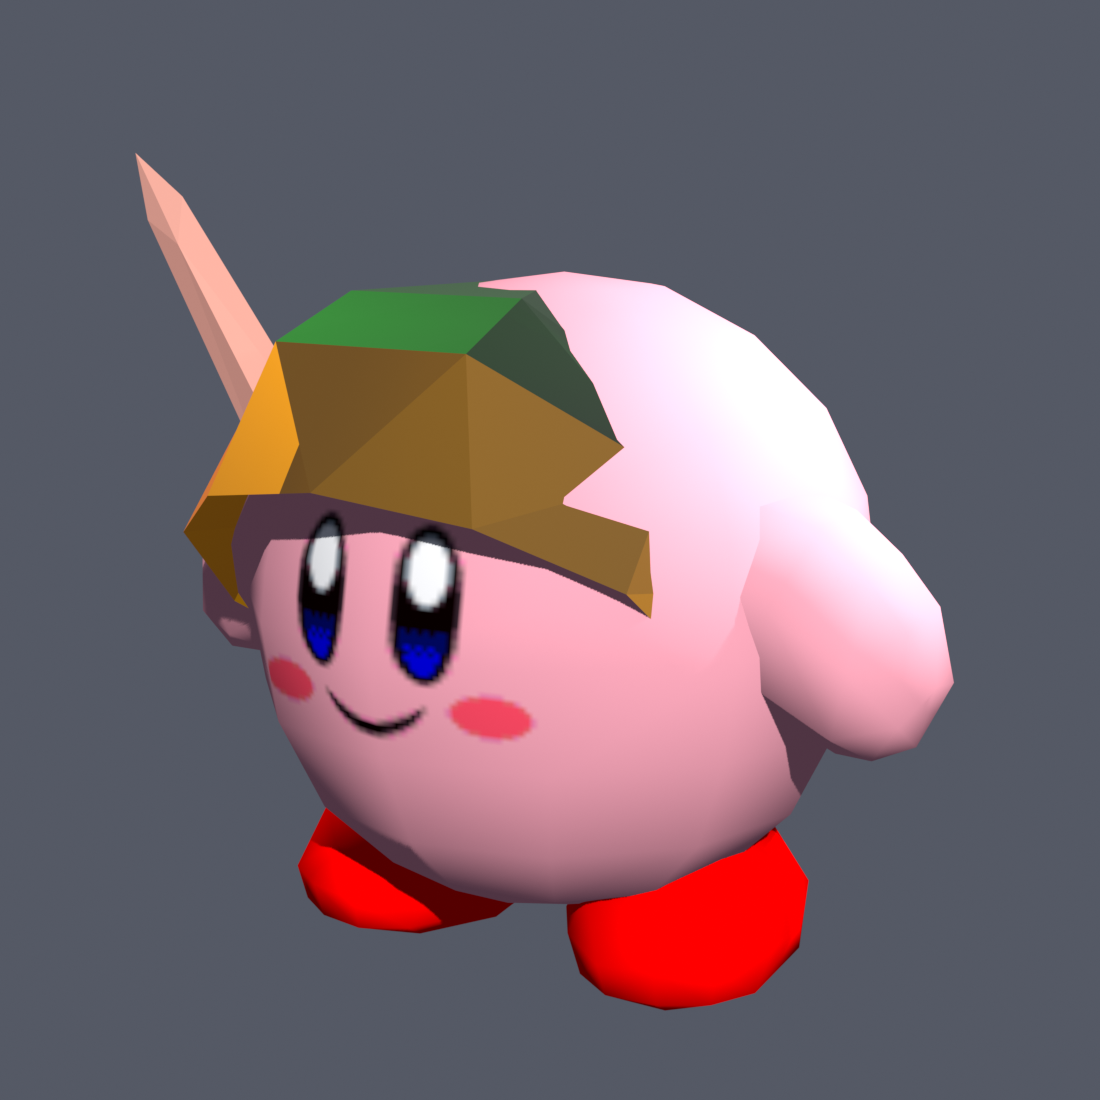
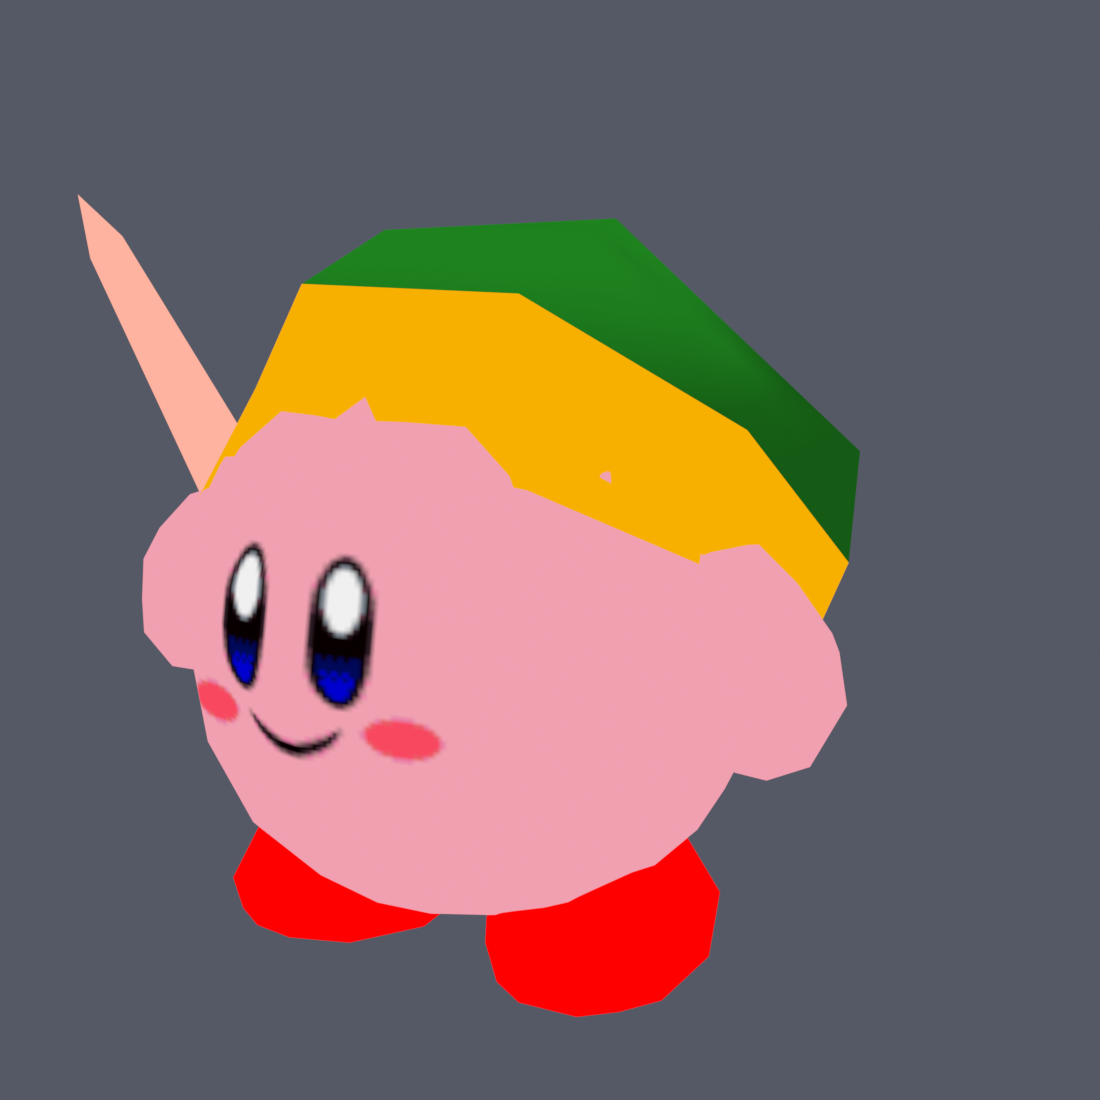
Fix the hat against the reference, and stop lighting the previews
Comparing against the reference render of Smash 64's Kirby (Link) turned up two
separate faults, one of them not in the model at all.

The previews were being lit with a key and fill lamp. These textures are already
fully shaded, so lighting them again darkened and tinted everything: the cap's gold
fringe came out a muddy olive against the reference's vivid yellow, and Kirby's pink
read dusty. flat_shading.py drives every material straight from its texture with an
emission shader, which is how the N64 draws them and how reference renders of these
rips are presented. Nothing was wrong with the materials, only with how they were
being looked at.

The cap placement was genuinely wrong, in three compounding ways. It was measured
against the donor's whole model, including the boomerang, which juts out on one side
and so both widened the reference box, making the cap come out too small, and shifted
its centre, sliding the cap off to one side. Position was carried as a scaled absolute
offset, which assumes both Kirbys share an origin. And vertically it was centred on
the cap's bounding box, which is dominated by the long tail hanging down the back, so
matching centres dragged the cap down until it sank into the head.

The cap is now measured against the donor's head alone, placed proportionally across
and front to back, and anchored vertically by how far its peak clears the crown, which
is the measurement that actually holds a hat on. It overhangs the head by thirteen
[…]

diff --git a/blender/build_sword_kirby.py b/blender/build_sword_kirby.py
@@ -36,8 +36,13 @@ from link_skeleton import DEFORM  # noqa: E402
 from sword_kirby import BONE_REST, build_reference_armature  # noqa: E402
 
 # Smash 64 textures that make up Link's cap, checked by average colour rather than by
-# guessing from the group names: the two green cloth materials and the gold band.
+# guessing from the group names: the two green cloth materials and the gold fringe.
 CAP_TEXTURES = ("2367eecf", "brim")
+
+# The boomerang, Kirby's Link copy move. It is dropped, and it is excluded when
+# measuring the donor's head so it cannot inflate the reference proportions.
+BOOMERANG_TEXTURES = ("bdd3634",)
+
 
 # Where Kirby sits against the reference rig. Link's head bone is near z 0.92, and
 # Kirby standing 0.84 high reads correctly without overtopping it.
@@ -105,6 +110,44 @@ def uses_cap_texture(material: bpy.types.Material | None) -> bool:
     return False
 
 
+def uses_any(material: bpy.types.Material | None, hints: tuple[str, ...]) -> bool:
+    if material is None or not material.use_nodes:
+        return False
+    for node in material.node_tree.nodes:
+        image = getattr(node, "image", None)
+        if image is None:
+            continue
+        name = os.path.basename(image.filepath or image.name).lower()
+        if any(h in name for h in hints):
+            return True
+    return False
+
+
+def donor_head_bounds(obj: bpy.types.Object) -> tuple[Vector, Vector]:
+    """Bounds of the donor Kirby's own body, with the cap and boomerang left out.
+
+    This is what the cap must be measured against. Using the whole model instead gets
+    it wrong twice over: the boomerang juts out on one side, which both widens the box,
+    making the cap come out too small, and shifts its centre, which slides the cap off
+    to one side of the head.
+    """
+    skip = {
+        i for i, m in enumerate(obj.data.materials)
+        if uses_any(m, CAP_TEXTURES) or uses_any(m, BOOMERANG_TEXTURES)
+    }
+    pts: list[Vector] = []
+    for poly in obj.data.polygons:
+        if poly.material_index in skip:
+            continue
+        for vi in poly.vertices:
+            pts.append(obj.matrix_world @ obj.data.vertices[vi].co)
+    if not pts:
+        raise ValueError("donor has no body left after excluding cap and boomerang")
+    lo = Vector((min(p.x for p in pts), min(p.y for p in pts), min(p.z for p in pts)))
+    hi = Vector((max(p.x for p in pts), max(p.y for p in pts), max(p.z for p in pts)))
+    return lo, hi
+
+
 def keep_only_cap(obj: bpy.types.Object) -> int:
     """Delete every face of the Smash 64 model that is not part of Link's cap."""
     cap_slots = {i for i, m in enumerate(obj.data.materials) if uses_cap_texture(m)}
@@ -144,20 +187,41 @@ def place_cap(
     """
     donor_width = max(donor_hi.x - donor_lo.x, 1e-6)
     body_width = body_hi.x - body_lo.x
-    # Kirby 64's head is rounder than the Smash 64 one the cap was cut from, so a
-    # straight width match sits the brim across his eyes. Easing it in and lifting it
-    # puts the brim on his forehead and lets the green show.
-    scale = (body_width / donor_width) * 0.90
-    lift = (body_hi.z - body_lo.z) * 0.10
+    # Match the two heads directly. Both are Kirbys of the same build, so the cap that
+    # fitted one fits the other at the ratio of their widths, with no fudge factor: the
+    # reference has the cap overhanging the head slightly at the sides, and shrinking it
+    # to perch on top was an artefact of measuring against the wrong box.
+    scale = body_width / donor_width
+    lift = 0.0
 
-    donor_centre = Vector(((donor_lo.x + donor_hi.x) * 0.5, (donor_lo.y + donor_hi.y) * 0.5, donor_lo.z))
-    body_centre = Vector(((body_lo.x + body_hi.x) * 0.5, (body_lo.y + body_hi.y) * 0.5, body_lo.z))
+    # Read the cap's own box before scaling, so the anchors below are in donor units.
+    raw_lo, raw_hi = world_bounds(cap)
 
     cap.scale = (scale, scale, scale)
     bpy.context.view_layer.update()
+    cap_lo, cap_hi = world_bounds(cap)
+    cap_centre = (cap_lo + cap_hi) * 0.5
 
-    # Where the cap sat on the donor, carried across at the new scale, then lifted.
-    cap.location = body_centre - donor_centre * scale + Vector((0.0, 0.0, lift))
+    donor_size = donor_hi - donor_lo
+    body_size = body_hi - body_lo
+
+    # Sideways and front to back, put the cap where it sits on the donor's head as a
+    # fraction of that head's box, and reproduce the fraction on the new one. Carrying a
+    # scaled absolute offset instead assumes both heads share an origin, and they do not.
+    target = Vector((0.0, 0.0, 0.0))
+    for axis in (0, 1):
+        extent = donor_size[axis]
+        fraction = ((cap_centre[axis] / scale) - donor_lo[axis]) / extent if extent else 0.5
+        target[axis] = body_lo[axis] + fraction * body_size[axis]
+
+    # Vertically, anchor the crown rather than the centre. The cap's box is dominated by
+    # the long tail hanging down the back, so matching box centres drags the whole cap
+    # down until it sinks into the head. How far the cap's peak clears the top of the
+    # head is the measurement that actually holds a hat on, and it carries across.
+    crown_clearance = (raw_hi.z - donor_hi.z) * scale
+    target.z = cap_centre.z + (body_hi.z + crown_clearance) - cap_hi.z
+
+    cap.location = cap.location + (target - cap_centre)
 
     bpy.ops.object.select_all(action="DESELECT")
     cap.select_set(True)
@@ -463,7 +527,8 @@ def assemble(assets_root: str, verbose: bool = True) -> bpy.types.Object:
     body_lo, body_hi = world_bounds(body)
 
     cap = join(import_obj(cap_obj), "Cap")
-    donor_lo, donor_hi = world_bounds(cap)
+    # Measure the donor's head before culling, excluding its cap and boomerang.
+    donor_lo, donor_hi = donor_head_bounds(cap)
     kept = keep_only_cap(cap)
     tag_role(cap, "cap")
     if verbose:

diff --git a/blender/render_preview.py b/blender/render_preview.py
@@ -17,6 +17,7 @@ import bpy
 from mathutils import Vector
 
 sys.path.insert(0, os.path.dirname(os.path.abspath(__file__)))
+from flat_shading import flatten_all  # noqa: E402
 from link_skeleton import DEFORM  # noqa: E402
 from sword_kirby import (  # noqa: E402
     BALL_CENTRE,
@@ -45,12 +46,28 @@ def _sun(name: str, rotation: tuple[float, float, float], energy: float) -> None
     bpy.context.scene.collection.objects.link(obj)
 
 
-def _camera(azimuth_deg: float, elevation_deg: float, distance: float) -> bpy.types.Object:
+def _frame(mesh_obj: bpy.types.Object) -> tuple[Vector, float]:
+    """Centre and radius of a mesh, so the camera can frame whatever it is given.
+
+    A fixed camera distance only ever suits one model size. The generated Kirby stood
+    about one unit tall; rigged to Link's skeleton he is over five, and the fixed
+    distance put the camera inside his foot.
+    """
+    bpy.context.view_layer.update()
+    pts = [mesh_obj.matrix_world @ v.co for v in mesh_obj.data.vertices]
+    lo = Vector((min(p.x for p in pts), min(p.y for p in pts), min(p.z for p in pts)))
+    hi = Vector((max(p.x for p in pts), max(p.y for p in pts), max(p.z for p in pts)))
+    return (lo + hi) * 0.5, max((hi - lo).x, (hi - lo).y, (hi - lo).z) * 0.5
+
+
+def _camera(azimuth_deg: float, elevation_deg: float, distance: float,
+            target: Vector | None = None) -> bpy.types.Object:
     import math
 
     az = math.radians(azimuth_deg)
     el = math.radians(elevation_deg)
-    target = Vector((0.0, 0.0, BALL_CENTRE.z))
+    if target is None:
+        target = Vector((0.0, 0.0, BALL_CENTRE.z))
     position = target + Vector((
         math.sin(az) * math.cos(el) * distance,
         -math.cos(az) * math.cos(el) * distance,
@@ -58,7 +75,7 @@ def _camera(azimuth_deg: float, elevation_deg: float, distance: float) -> bpy.ty
     ))
 
     cam_data = bpy.data.cameras.new("Preview")
-    cam_data.lens = 70.0
+    cam_data.lens = 58.0
     cam = bpy.data.objects.new("Preview", cam_data)
     cam.location = position
     direction = (target - position).normalized()
@@ -153,7 +170,10 @@ def render_sheet(out_dir: str, limb_view: bool, blend: str | None = None,
             arm.hide_render = True
         if limb_view:
             _recolour_by_limb(mesh)
-        _camera(azimuth, elevation, 2.6)
+        else:
+            flatten_all(mesh)
+        centre, radius = _frame(mesh)
+        _camera(azimuth, elevation, radius * 4.4, centre)
 
         suffix = "limbs" if limb_view else "shaded"
         path = os.path.join(os.path.abspath(out_dir), f"{prefix}_{name}_{suffix}.png")

diff --git a/blender/flat_shading.py b/blender/flat_shading.py
@@ -1,0 +1,56 @@
+"""Render these models the way the N64 draws them: flat, unlit texture.
+
+Lighting a ripped N64 model with studio lamps is actively misleading. The textures are
+already fully shaded, so a key and fill light darken and tint them: Link's gold cap
+fringe came out a muddy olive against the vivid yellow of the reference, and Kirby's
+pink read dusty. Nothing was wrong with the model, only with how it was being lit.
+
+Swapping every material for an emission shader fed by its own texture shows the colours
+the game actually puts on screen, and matches how reference renders of these rips are
+presented, so the two can be compared honestly.
+"""
+
+from __future__ import annotations
+
+import bpy
+
+
+def flatten(material: bpy.types.Material) -> bool:
+    """Drive a material straight from its texture, with no lighting applied."""
+    if not material.use_nodes:
+        material.use_nodes = True
+
+    tree = material.node_tree
+    output = next((n for n in tree.nodes if n.type == "OUTPUT_MATERIAL"), None)
+    if output is None:
+        output = tree.nodes.new("ShaderNodeOutputMaterial")
+
+    principled = tree.nodes.get("Principled BSDF")
+    source = None
+    colour = (0.8, 0.8, 0.8, 1.0)
+    if principled is not None:
+        base = principled.inputs["Base Color"]
+        if base.is_linked:
+            source = base.links[0].from_socket
+        else:
+            colour = tuple(base.default_value)
+
+    emission = tree.nodes.new("ShaderNodeEmission")
+    emission.location = (output.location.x - 220, output.location.y)
+    emission.inputs["Strength"].default_value = 1.0
+    if source is not None:
+        tree.links.new(source, emission.inputs["Color"])
+    else:
+        emission.inputs["Color"].default_value = colour
+
+    tree.links.new(emission.outputs["Emission"], output.inputs["Surface"])
+    return source is not None
+
+
+def flatten_all(obj: bpy.types.Object) -> int:
+    """Flatten every material on a mesh. Returns how many are texture driven."""
+    textured = 0
+    for material in obj.data.materials:
+        if material is not None and flatten(material):
+            textured += 1
+    return textured

diff --git a/blender/pose_test.py b/blender/pose_test.py
@@ -25,6 +25,7 @@ import bpy
 from mathutils import Vector
 
 sys.path.insert(0, os.path.dirname(os.path.abspath(__file__)))
+from flat_shading import flatten_all  # noqa: E402
 from link_skeleton import FAST64_BONE  # noqa: E402
 
 # name, then a list of (limb, axis, degrees) applied to the pose.
@@ -108,6 +109,7 @@ def main() -> None:
             sys.exit(1)
         armature, kirby = armatures[0], max(meshes, key=lambda o: len(o.data.vertices))
         armature.hide_render = True
+        flatten_all(kirby)
 
         apply_pose(armature, moves)
 
